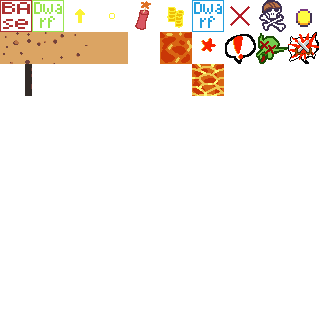
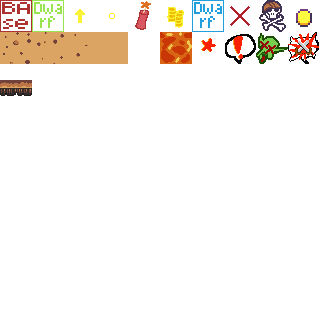
north walls

Changed region(s): [[0.5938, 0.1875, 0.7188, 0.3125], [0.0, 0.1875, 0.125, 0.3125]]

diff --git a/TODO.md b/TODO.md
@@ -2,6 +2,7 @@
 # In progress
 ////////////////////////////////////////////////////////////////////////////////////////////////////
 
+- Art: Wall sprites
 
 ////////////////////////////////////////////////////////////////////////////////////////////////////
 # Bugs
@@ -40,20 +41,20 @@
 #  Art
 ////////////////////////////////////////////////////////////////////////////////////////////////////
 
-- Art: Better lava sprites / animations
-- Art: Better water sprites / animations
 - Art: Dwarf digger spritesheet
 - Art: Dwarf warrior spritesheet
 - Art: Goblin spritesheet
-- Art: Unmined dirt spritesheet
 - Art: Mined dirt spritesheet
 - Art: Iron ore sprite
-- Art: Wall sprite
 - Art: Obsidian sprite
 - Art: Dynamite sprite
 - Art: Hole sprite
 - Art: Home base sprite
 - Art: Outpost base sprites
+
+- Art: Better unmined dirt spritesheet
+- Art: Better lava sprites / animations
+- Art: Better water sprites / animations
 
 ////////////////////////////////////////////////////////////////////////////////////////////////////
 # Tutorial
